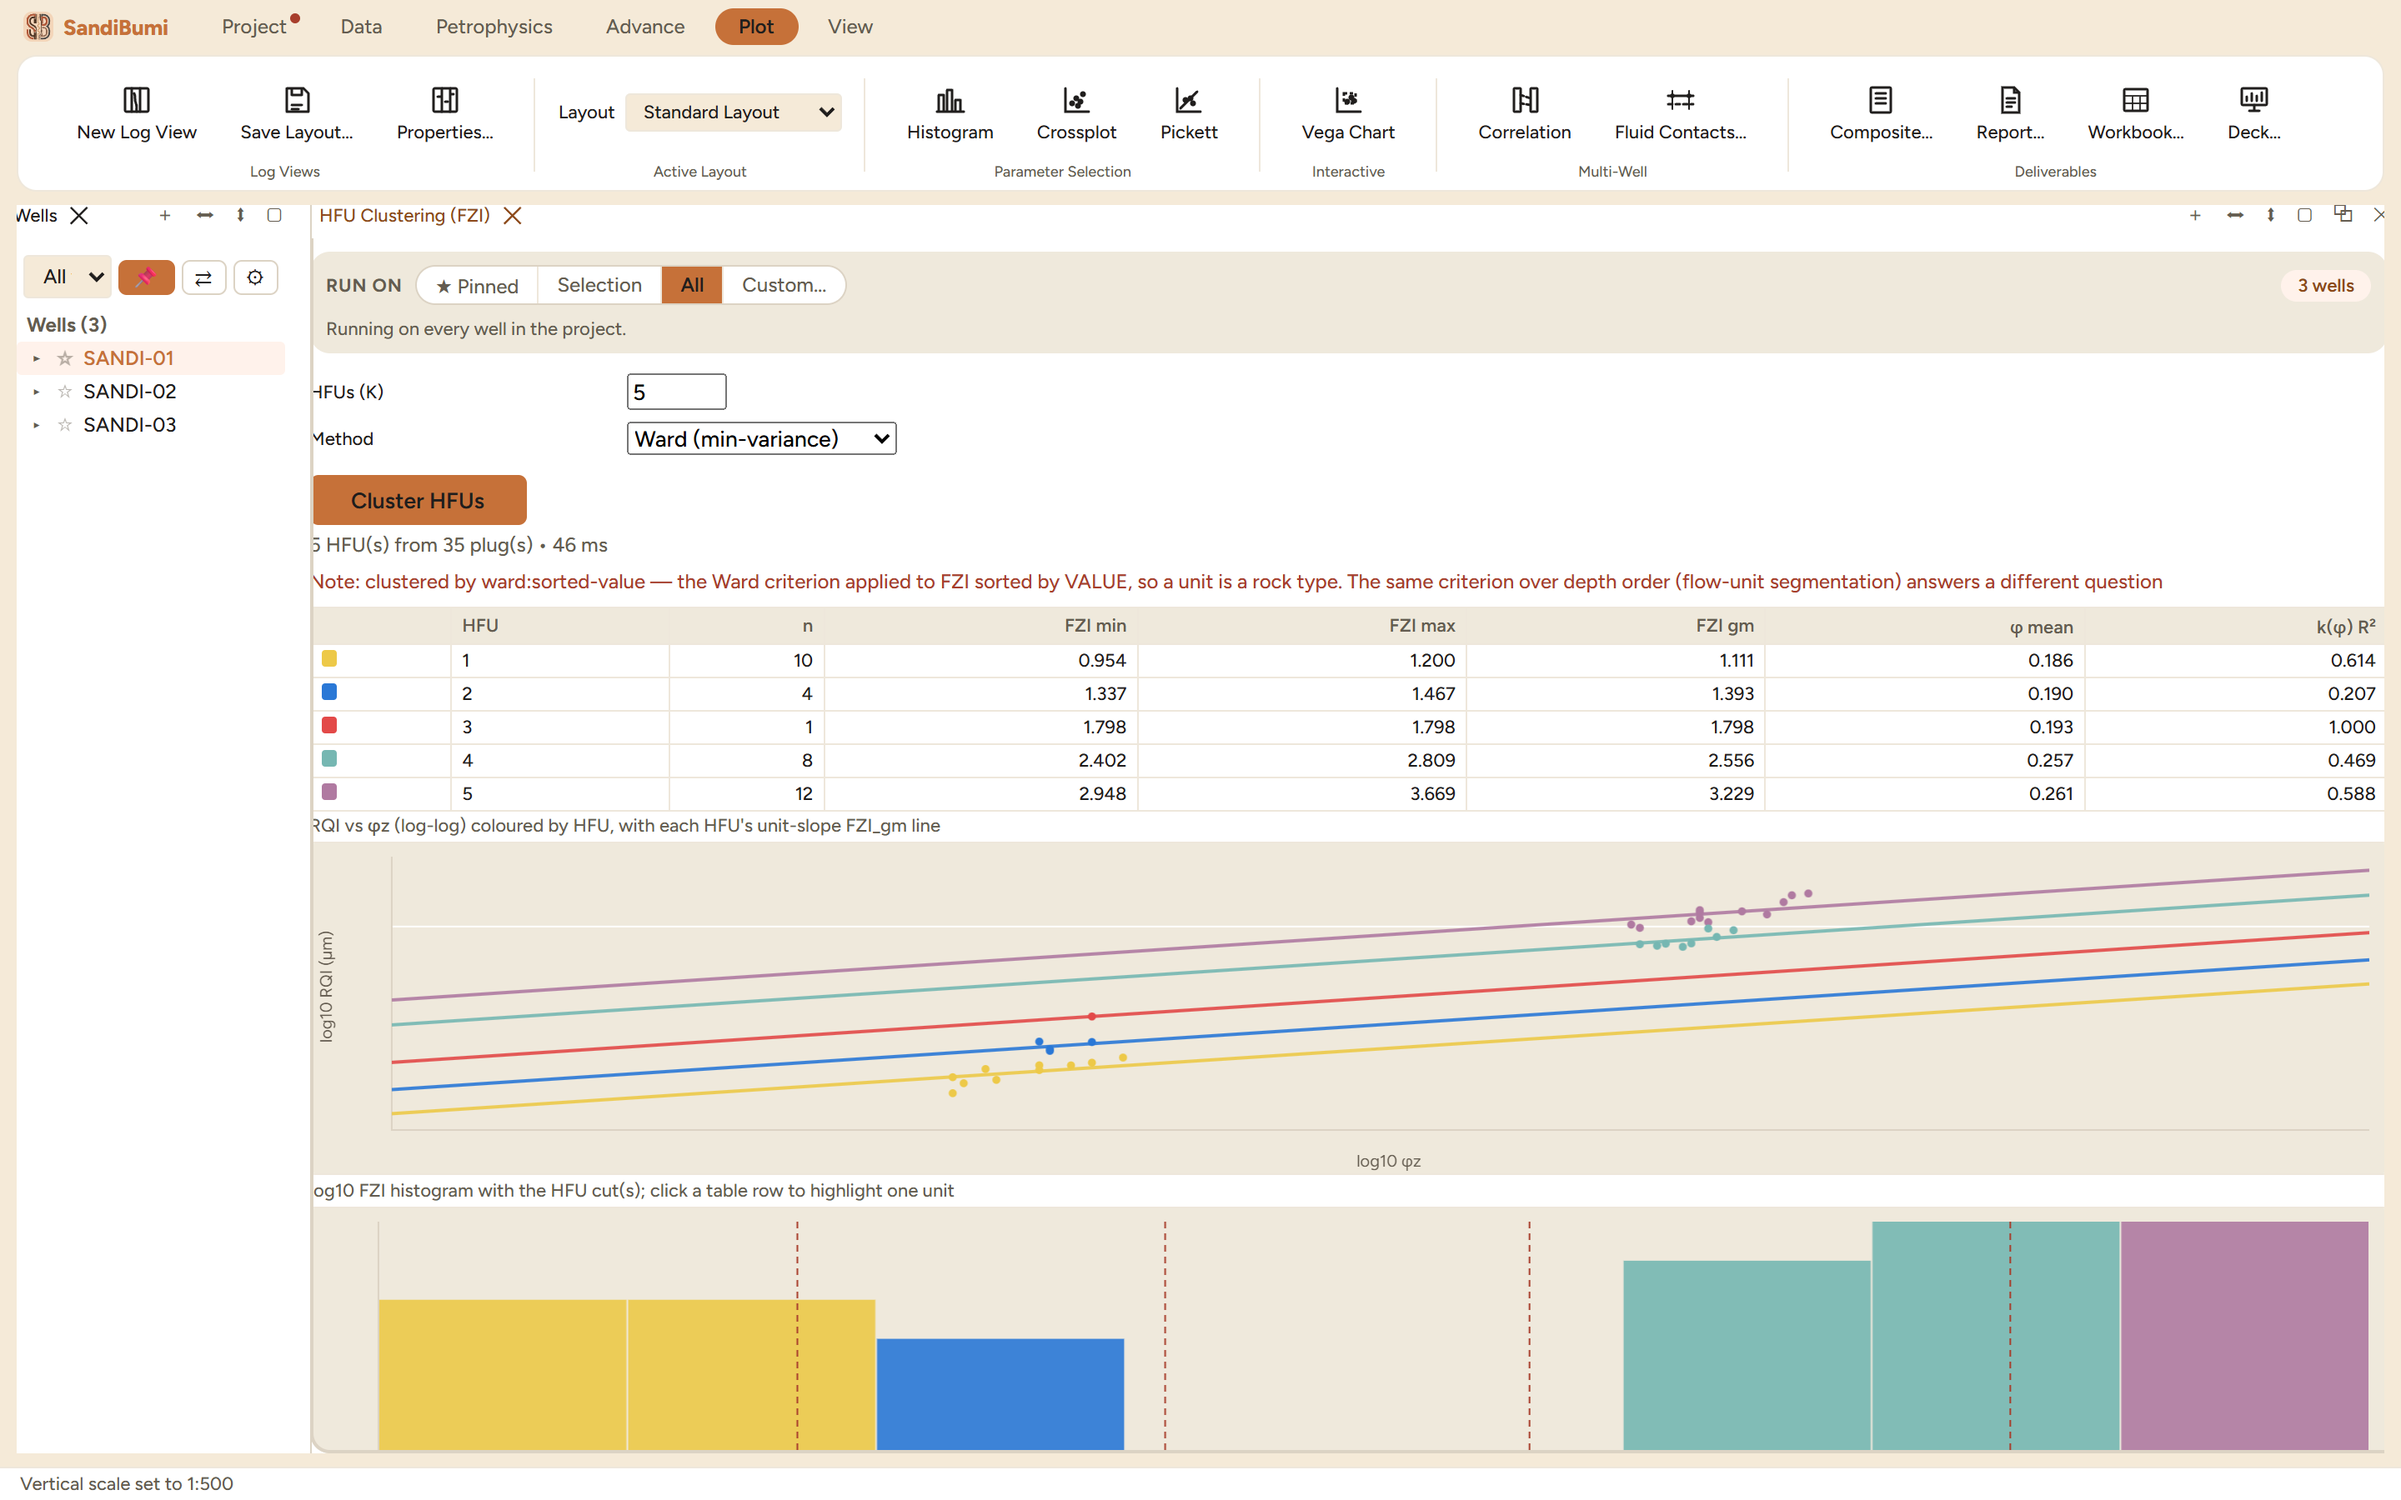
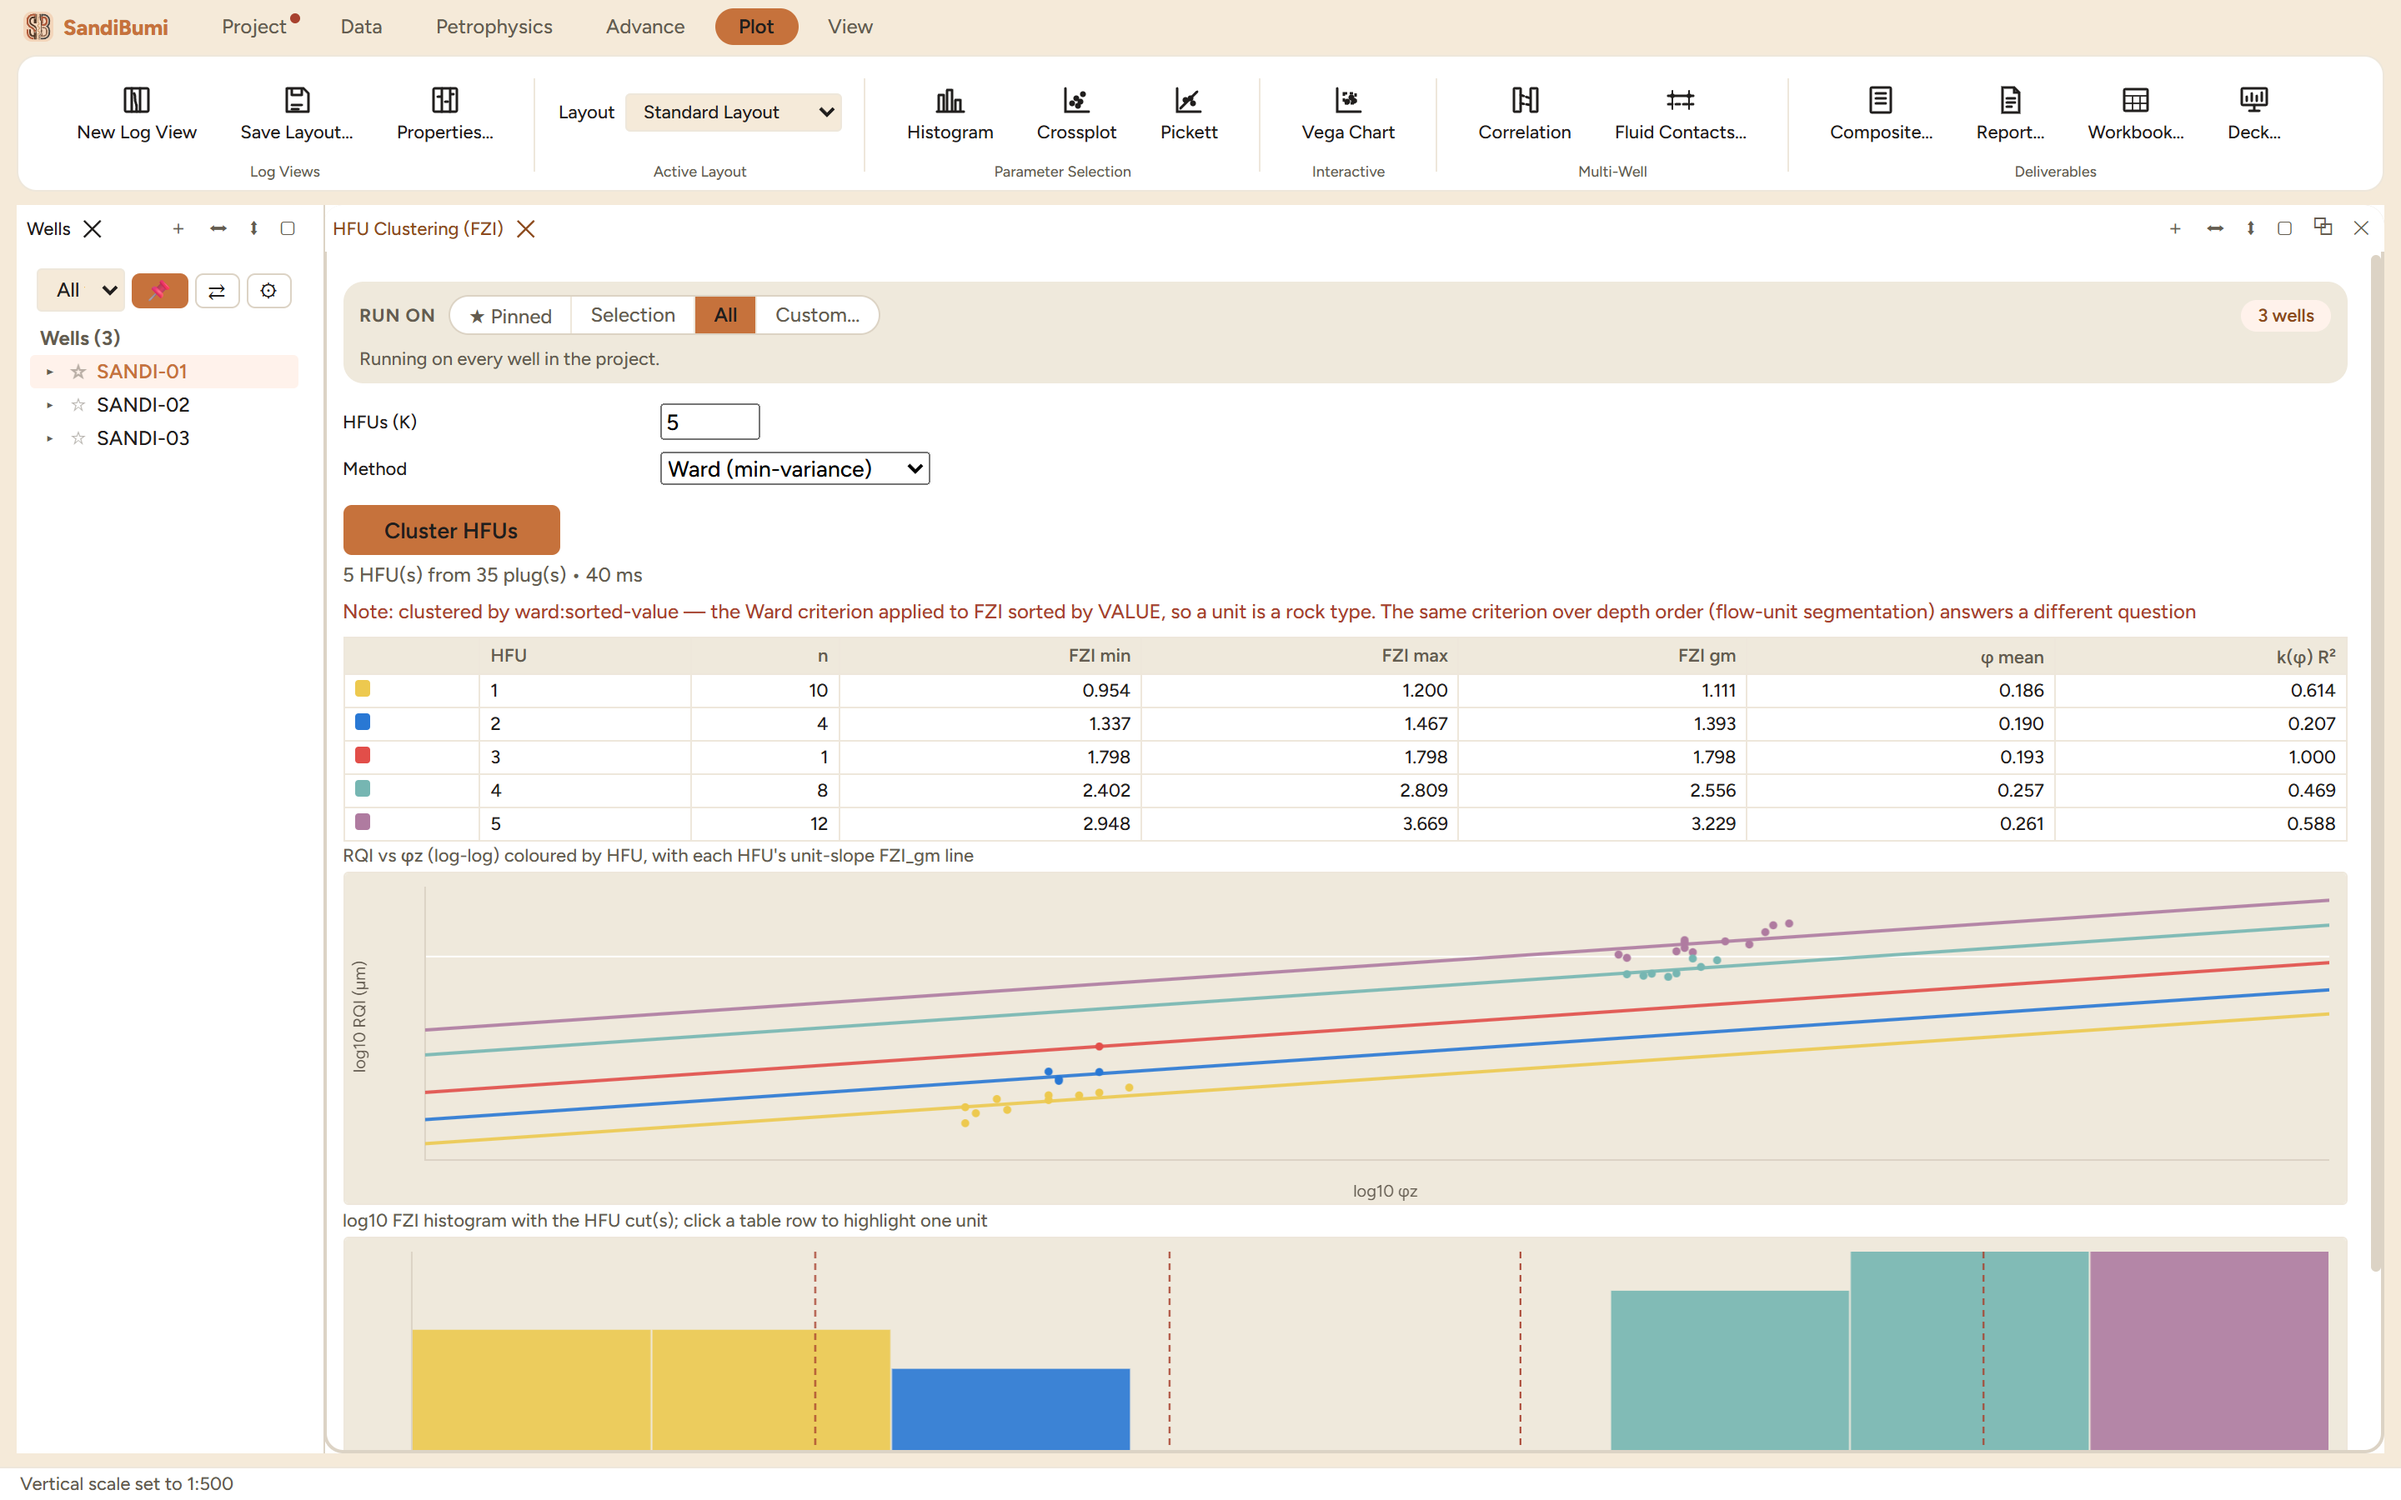
The eight tool panes get the gutter their stylesheet asked for
The follow-up raised in the previous increment, with one correction to it: it is
EIGHT panes, not nine. Installation Support shares the same .mc-dialog layout
class but opens through openModal, so it is a dialog and already takes its
gutter from .modal-body. Naming it as an offender was wrong.

styles.css has a list of tool panes that get padding 10px 12px, above a comment
saying "Any new tool pane belongs in this list". It held 14 entries. The eight
panes built on the shared .mc-dialog layout - Machine Learning, Monte Carlo, SHF
Fit, Pc Fit (Thomeer), HFU Clustering, Lorenz, Facies Tie-in and SandiMin - were
in none of them, and .mc-dialog sets no padding of its own, so every one printed
its first character hard against the card edge.

Measured on the running app rather than eyeballed. Suppressing the new rule and
restoring it moved SandiMin's first label from 11px to 23px from the pane edge
and the pane's own padding-left from 0px to 12px; all eight read 12px with the
rule in place. The change is 8 selectors added to an existing list - no new rule,
no layout reflow.

Nine guidebook figures show those panes, so all nine were re-shot against a live
run that reproduces the numbers each caption quotes: ML 776/388 samples and R2
0.9993/0.9947/0.9950; the Monte Carlo tornado still 1.35-1.58 about a base of
1.47 with rho +0.76 and +0.60; SHF A 0.405, B -0.614, R2 0.639 on 503 points;
Thomeer G 0.87-0.97 and R2 0.97-0.99 on 8 points each; HFU five units from 35
[…]

Changed region(s): [[0.0, 0.1244, 1.0, 0.9644], [0.4688, 0.9333, 0.5, 0.9644]]

diff --git a/src/styles.css b/src/styles.css
@@ -1264,7 +1264,21 @@ textarea {
 .dock-intake,
 .dock-reframe,
 .dock-versions,
-.dock-sfactor-fit {
+.dock-sfactor-fit,
+/* The eight panes built on the shared `.mc-dialog` layout were never in this list, and
+ * `.mc-dialog` sets no padding of its own, so every one of them printed its first character
+ * against the card edge — measured on the running app: the first label's left edge sat at
+ * exactly the pane's own left edge, 0px of gutter. They are tool panes like the rest, so the
+ * list's own instruction above applies to them. (installationSupportDialog shares the class but
+ * is a MODAL, not a pane, and takes its gutter from `.modal-body` — it is deliberately absent.) */
+.dock-ml,
+.dock-montecarlo,
+.dock-shf,
+.dock-thomeer,
+.dock-hfu,
+.dock-lorenz,
+.dock-facies-tie,
+.dock-sandimin {
   padding: 10px 12px;
 }
 

diff --git a/REVIEW.md b/REVIEW.md
@@ -20757,3 +20757,52 @@ describe the second and throw the third away.
       form labels sit flush against the card edge and the first character reads as clipped. It is
       visible in the new figure. I left it alone because fixing it moves roughly eight guidebook
       figures and deserves its own increment rather than being half-done here.
+
+## The eight tool panes get the gutter their stylesheet already asked for (2026-08-29)
+
+The follow-up I raised last increment, now done — with one correction to what I told you then:
+it is **eight** panes, not nine. Installation Support shares the same layout class but opens
+through `openModal`, so it is a dialog and already takes its gutter from the modal body. Naming
+it as a tenth offender was wrong.
+
+The stylesheet has a list of tool panes that get `padding: 10px 12px`, with a comment above it
+saying "Any new tool pane belongs in this list". It held 14 entries. The eight panes built on the
+shared dialog layout — Machine Learning, Monte Carlo, SHF Fit, Pc Fit (Thomeer), HFU Clustering,
+Lorenz, Facies Tie-in and SandiMin — were in none of them, and that layout sets no padding of its
+own, so every one of them printed its first character hard against the card edge.
+
+I measured it rather than eyeballing it. Suppressing the new rule on the running app and putting
+it back moved SandiMin's first label from **11 px to 23 px** from the pane edge, and the pane's
+own `padding-left` from **0 px to 12 px**; all eight read 12 px with the rule in place. That is
+the whole change — 8 selectors added to an existing list, no new rule and no layout reflow.
+
+Nine guidebook figures show those panes, so all nine were re-shot against a live run that
+reproduces the numbers each caption quotes:
+
+- [ ] **Machine Learning** — 776 samples fitted on two wells, 388 held blind, R² 0.9993 / 0.9947
+      / 0.9950. Reproduced twice, identically, so the run is deterministic on the seed.
+- [ ] **Monte Carlo** (two figures) — the GUIDE10 chain at 200 iterations, seed 42; the tornado
+      still swings HPV 1.35 → 1.58 about a base of 1.47 with ρ +0.76 and +0.60.
+- [ ] **SHF Fit** — A 0.405, B −0.614, R² 0.639 over 503 points.
+- [ ] **Pc Fit (Thomeer)** — three plugs, G 0.87–0.97, R² 0.97–0.99 on 8 points each.
+- [ ] **HFU Clustering** — five units from 35 plugs by Ward on FZI.
+- [ ] **Lorenz** — SANDI-01, coefficient 0.438, three flow units, top unit slope 1.85.
+- [ ] **Facies Tie-in** — purity 93.5% over 573 matched samples, k variance reduction 94.7%
+      over 33 plugs.
+- [ ] **SandiMin** — 395 samples solved per well, incoherence 2.453–2.460 σ into the SANDIMIN set.
+
+### One thing I fixed while I was in there
+
+- [ ] **The SHF figure was the only one of 173 shot at the wrong size.** The book's figures are
+      2880 × 1800 px; I shot that one at 2800 wide last increment. It is now 2880 like every
+      other, so the chapter's picture matches the width of the ones on either side of it.
+
+**What to look at:** open any of the eight panes and check the left edge — the first label should
+sit clear of the card edge the way it does in Plug QC or Mineral Classifier, not against it.
+Then compare each pane against its figure in the guidebook; the picture and the app should now
+be showing the same margin.
+
+### Still yours to call, carried forward
+
+- [ ] **The sw_height chapter's free-water level** — 1535 m MD in the chapter against 1550.1 m
+      MD from the contacts registry and the Results QC chapter. Unchanged, still waiting on you.

diff --git a/docs/VERIFICATION_MATRIX.md b/docs/VERIFICATION_MATRIX.md
@@ -9,7 +9,7 @@ containing a checked scenario; it is not a more precise test timestamp.
 
 Capabilities with recorded exercise: **20 / 54**. Fully exercised: **1 / 54**.
 
-Review sections counted toward no capability: **191** of 754,
+Review sections counted toward no capability: **191** of 755,
 each named in `unmapped_review_sections` in the capability map. They contribute to no count in
 this table, so every figure above reads low by whatever those sections cover.
 
@@ -61,7 +61,7 @@ this table, so every figure above reads low by whatever those sections cover.
 | `report` | Report deliverables | Partially exercised | 8 / 130 | 2026-08-14 | 29 |
 | `office-deliverables` | Workbook, document and deck deliverables | Not exercised | 0 / 39 | — | 4 |
 | `las-export` | LAS export | Not exercised | 0 / 23 | — | 8 |
-| `workspace-shell` | Docking workspace, panes and ribbon | Not exercised | 0 / 200 | — | 35 |
+| `workspace-shell` | Docking workspace, panes and ribbon | Not exercised | 0 / 210 | — | 36 |
 | `project-lifecycle` | Project lifecycle and sessions | Partially exercised | 3 / 38 | 2026-07-19 | 9 |
 | `database-tools` | Database inspector and SQL tools | Not exercised | 0 / 17 | — | 5 |
 | `processing-history` | Processing history | Not exercised | 0 / 7 | — | 1 |
